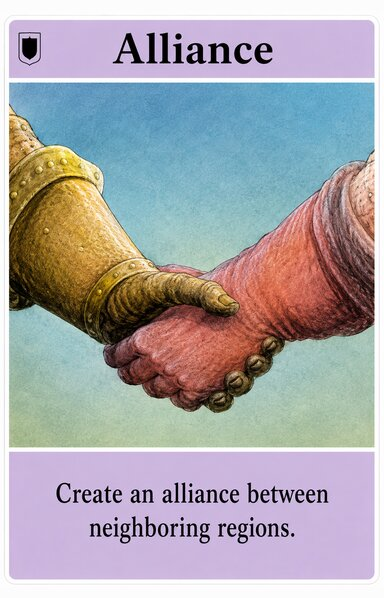
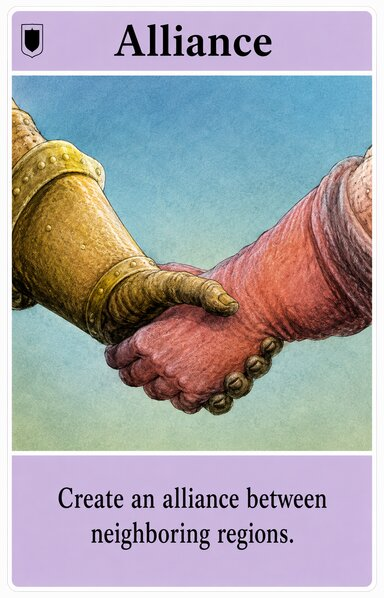
Löwenherz: match the Alliance card's borders to the Renegade card, and stop a used action card flipping over
Alliance's printed border is thinner than Renegade's (11/8px against 17/16 in the
source scans), but it needed 57px of height padding to reach the shared 534/832
ratio, so its top and bottom borders landed at 14.8/13.7px against Renegade's
6.5/6.1 while its sides came out thinner. It is now framed around its printed
content instead of padded: crop to the content box, fit it into a 384x598 frame
inset 7px horizontally and 6px vertically, and pad with the border's own colour.
Alliance's panel is a wider aspect than Renegade's, so filling that inset squeezes
it 4.2% horizontally rather than cropping into the artwork.

The flip override also lived one action too long. `card` goes undefined whenever a
card is used up, which matched the old "state is not showing my card" condition
all over again and re-mounted the flip node un-tweened at rotationY 0 - the card
back. It is now dropped in afterAnimations, so its lifetime is the one action that
created it and a used card disappears as it did before.

Changed region(s): [[0.0, 0.0, 1.0, 0.9632], [0.0312, 0.9632, 0.9688, 0.9933]]

diff --git a/games/lowenherz-ui/src/lib/components/DeckPiles.svelte b/games/lowenherz-ui/src/lib/components/DeckPiles.svelte
@@ -75,8 +75,13 @@
 
     // Pattern C, pre-reactivity override: the card being flipped comes from the action's own `to`
     // state, because for the whole length of the flip the derived `card` below is still the
-    // PREVIOUS one. Nothing clears this - it stops being rendered the moment reactive state
-    // catches up and `card.id` matches, which is the pattern's "let state naturally supersede it".
+    // PREVIOUS one.
+    //
+    // Its lifetime is exactly one action - set as the tween is built, dropped in
+    // afterAnimations, which is the last hook before the session assigns the new state (see the
+    // Transient Lifetime Rules in ANIMATION_PATTERN.md: action-scoped transients belong there).
+    // Both writes land in the same microtask drain as the state assignment, so no frame can paint
+    // between the flip node leaving and the real card arriving.
     let flippingCard: ActionCardData | undefined = $state(undefined)
 
     async function flipInDrawnCard(drawn: ActionCardData, animationContext: AnimationContext) {
@@ -102,6 +107,14 @@
             dx = fromRect.left + fromRect.width / 2 - (toRect.left + toRect.width / 2)
             dy = fromRect.top + fromRect.height / 2 - (toRect.top + toRect.height / 2)
         }
+
+        // Leaving this set past its own action was a bug: `card` goes undefined every time a card
+        // is used up, so a stale override matched "the state is not showing my card" all over
+        // again and re-mounted the flip node - un-tweened, at rotationY 0, which is the card back.
+        // A used card is meant to simply disappear.
+        animationContext.afterAnimations(() => {
+            flippingCard = undefined
+        })
 
         gsap.set(flipNode, { x: dx, y: dy, rotationY: 0, transformOrigin: 'center center' })
         animationContext.actionTimeline.to(
@@ -215,7 +228,7 @@
         style="perspective: 900px;"
         bind:this={middleSlotEl}
     >
-        {#if flippingCard && flippingCard.id !== card?.id}
+        {#if flippingCard}
             <div
                 bind:this={flipNode}
                 class="relative w-full aspect-[546/840] pointer-events-none"
